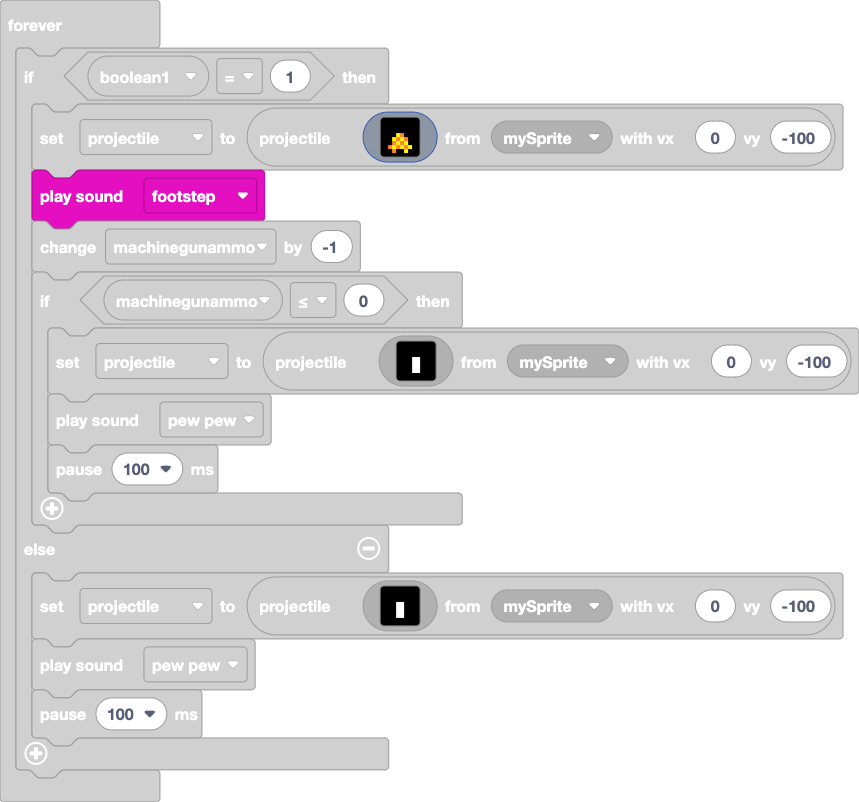
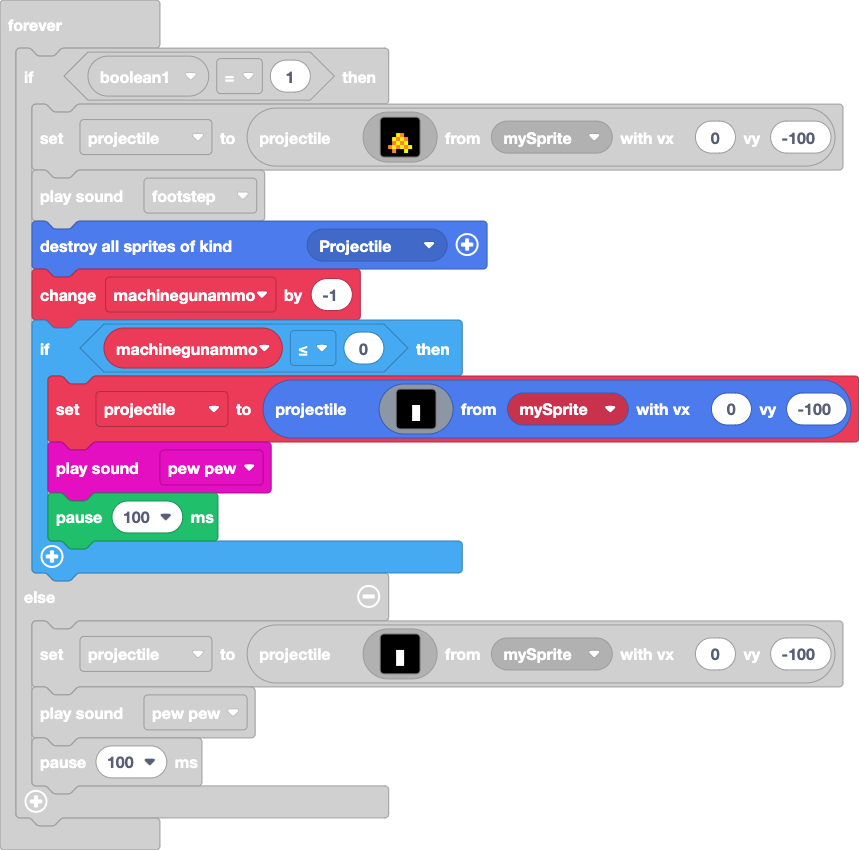
fixed texture bug

diff --git a/main.ts b/main.ts
@@ -237,6 +237,7 @@ forever(function () {
             . . 4 . . 5 . . 
             `, mySprite, 0, -100)
         music.footstep.play()
+        sprites.destroyAllSpritesOfKind(SpriteKind.Projectile)
         machinegunammo += -1
         if (machinegunammo <= 0) {
             projectile = sprites.createProjectileFromSprite(img`
